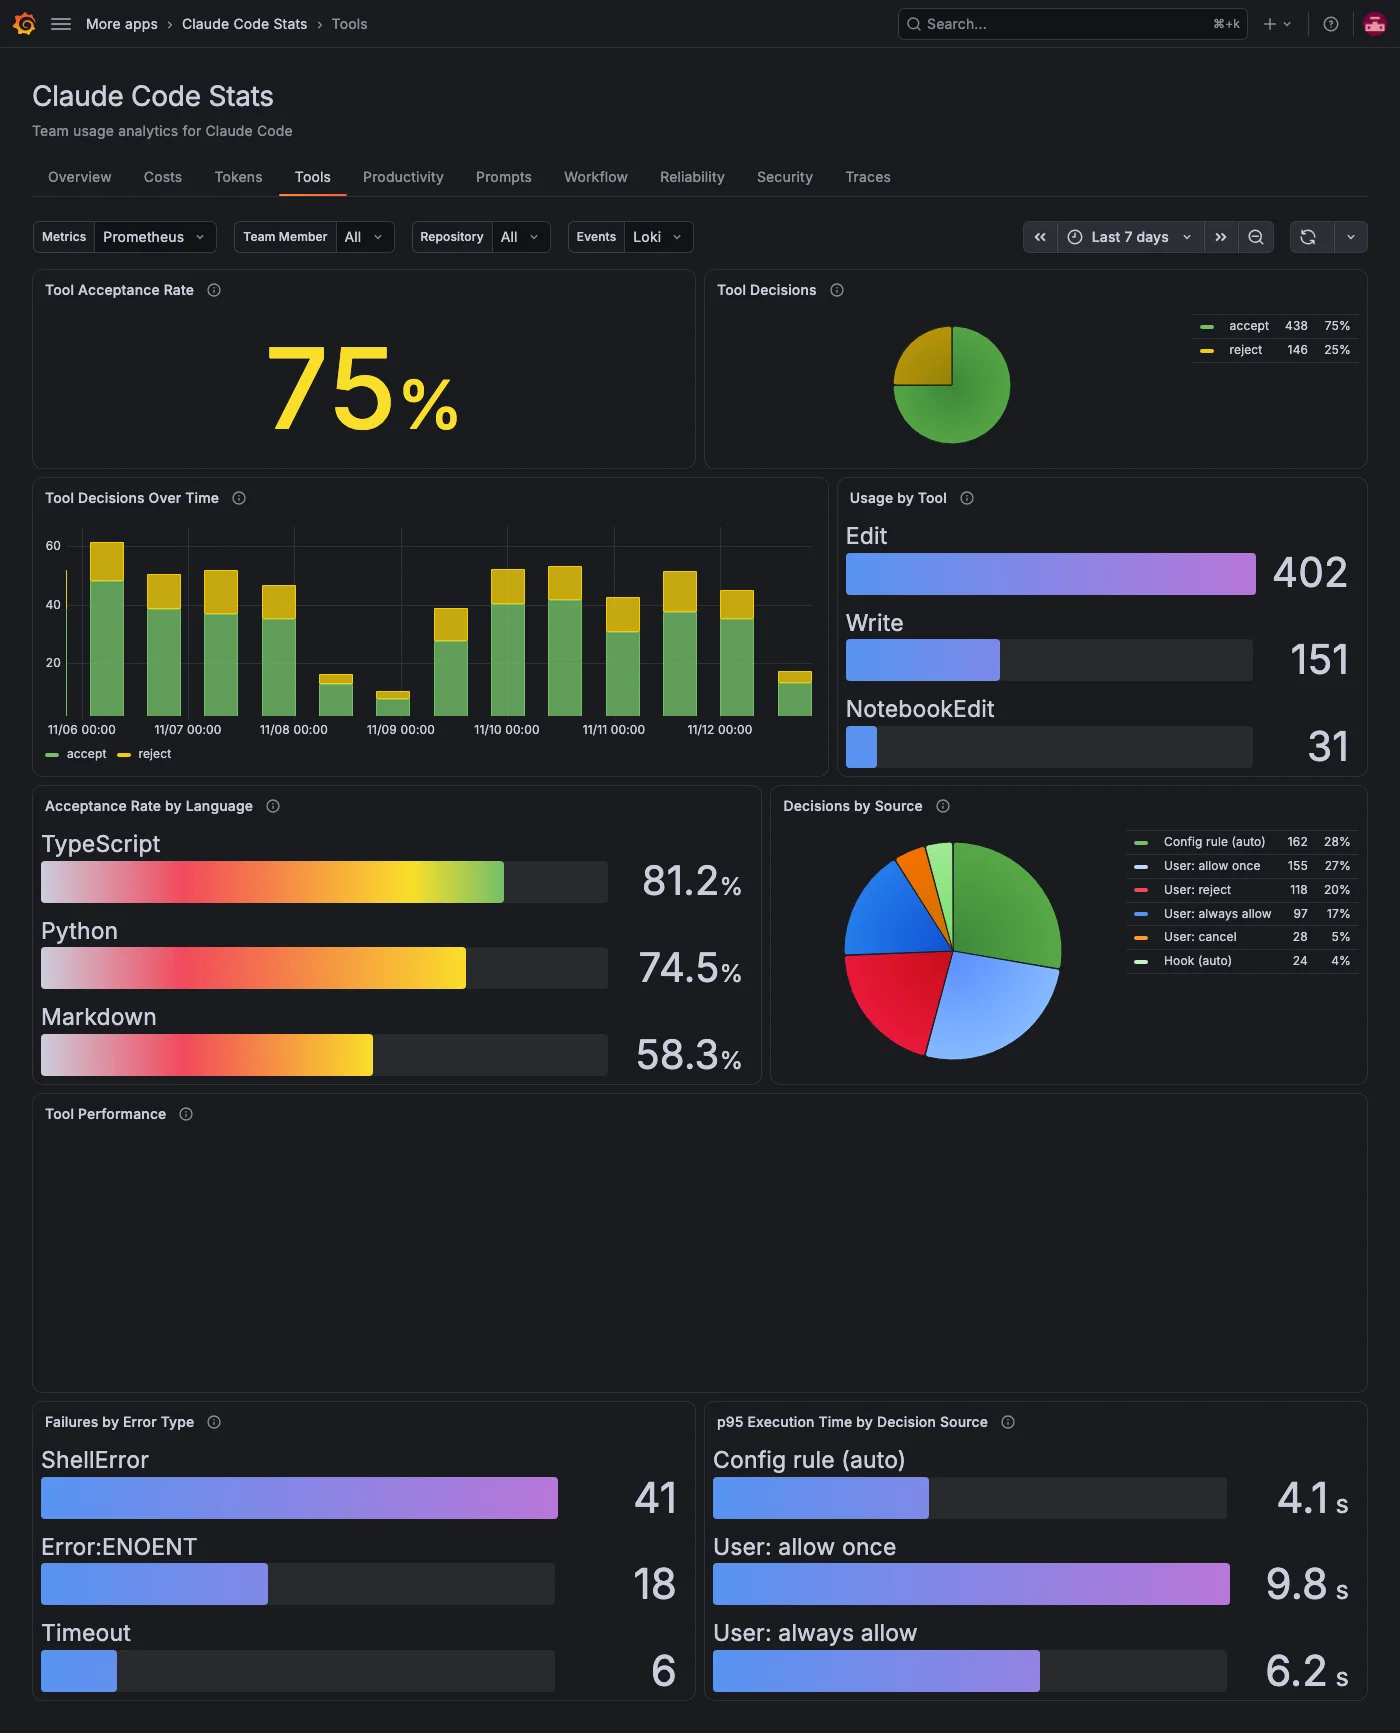
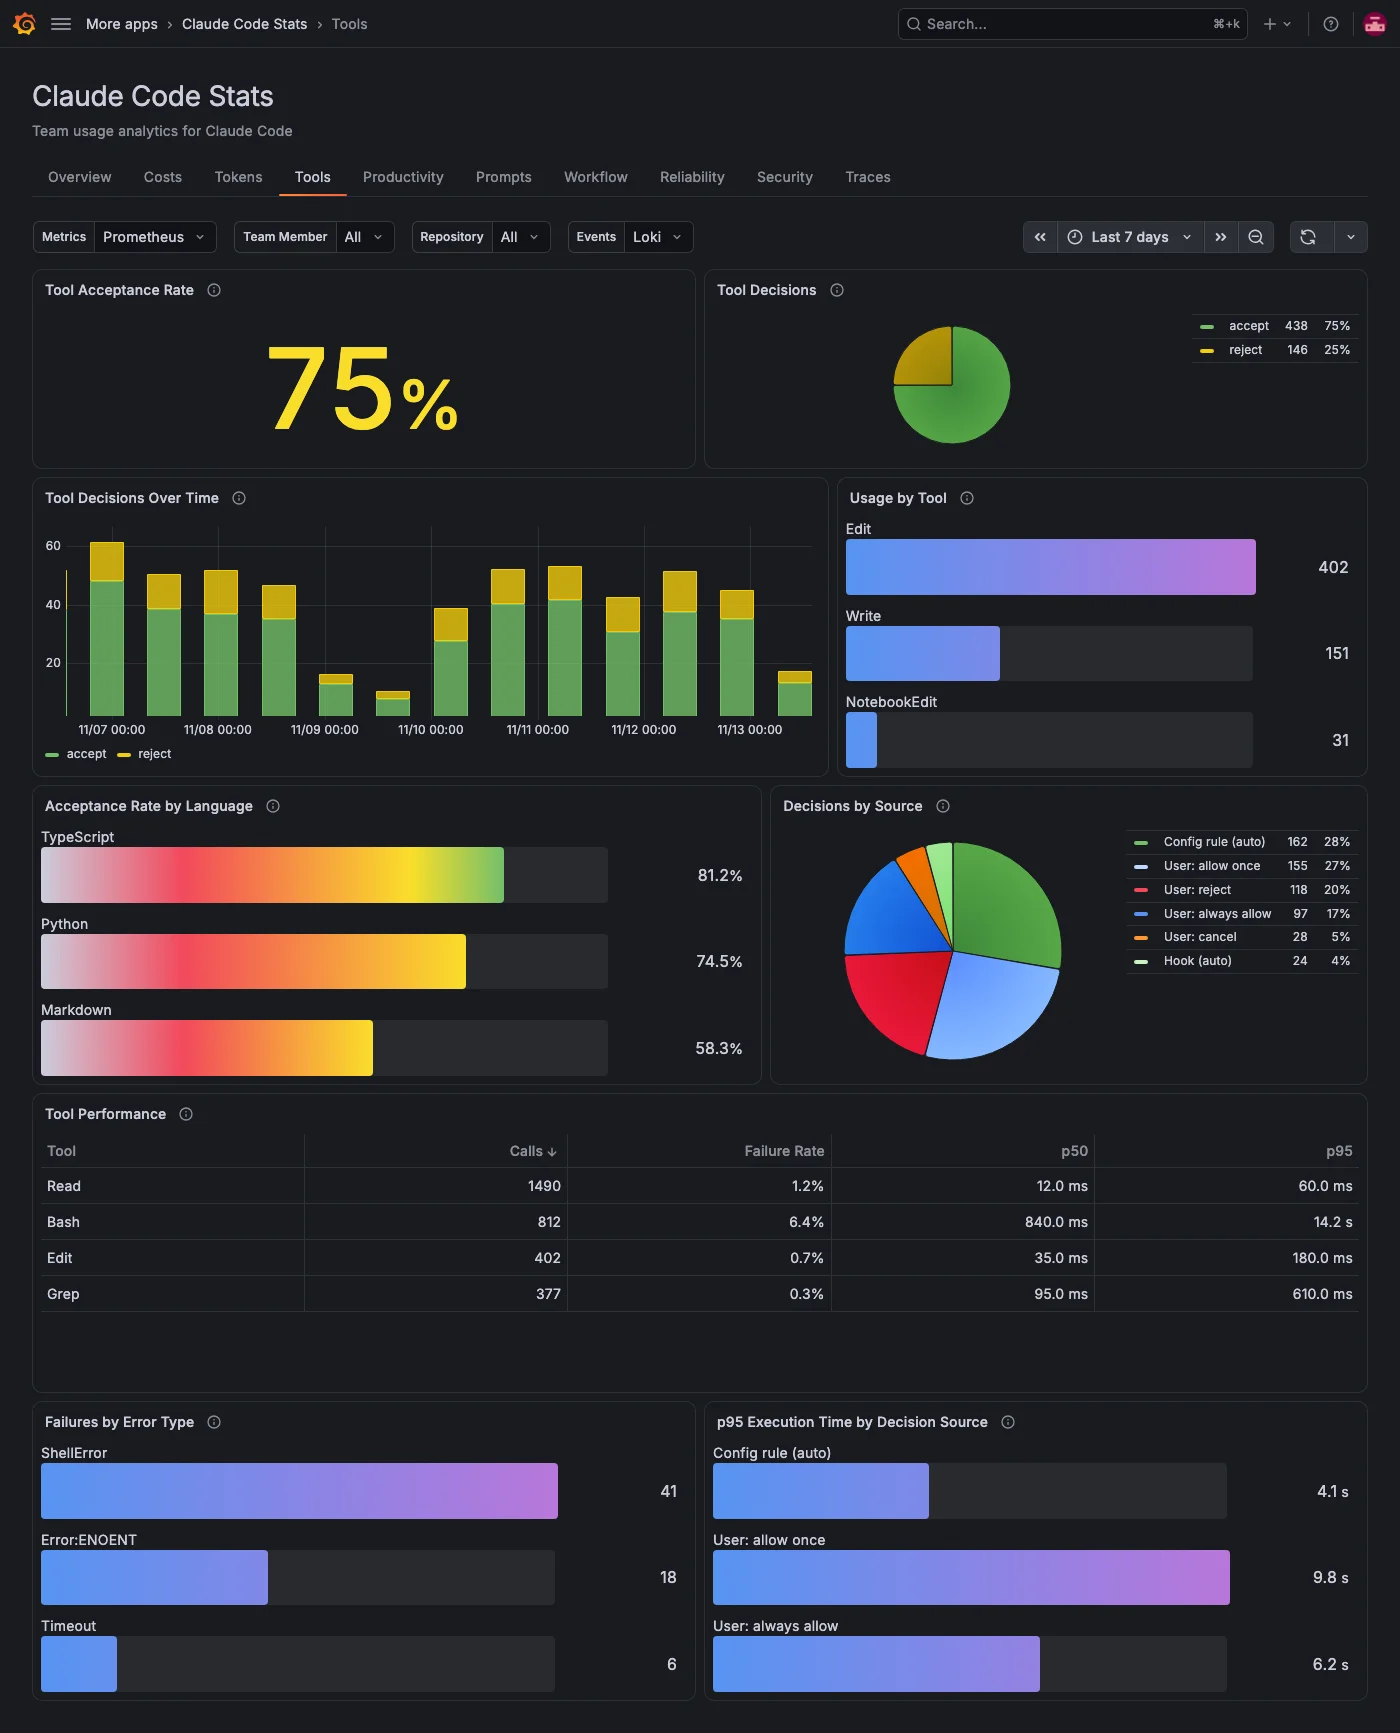
fix: readable labels, hints and text sizes in narrow panels (#96) (#105)
* fix: event tabs say what an empty panel means instead of asking for OTEL_LOGS_EXPORTER (#94)

* fix: show the exporter hint on empty breakdowns when Loki has no events

* fix: scope the event check to the configured labels and reword latency hints

* fix: don't claim why a panel is empty when the event check fails

* perf: one event check per tab instead of one per empty panel

* fix: readable labels, hints and text sizes in narrow panels

* docs: recapture screenshots and update the MCP tool label for the layout fixes

* fix: scope the Reliability event check to the selected model

diff --git a/src/scenes/pages/OverviewScene.ts b/src/scenes/pages/OverviewScene.ts
@@ -16,6 +16,7 @@ import { ACTIVE_TIME_TYPE_NAMES, changeVsPrevious, QUERIES, Queries } from '../q
 import { OVER_TIME_MIN_STEP, OVER_TIME_QUERY_OPTIONS, overTimeBars } from '../panelStyle';
 import { LABELS, PANEL_HEIGHTS } from '../../constants';
 import { teamLeaderboard } from './leaderboard';
+import { withEmptyHint } from '../HintWhenEmpty';
 
 /** A single-value stat for an efficiency ratio. */
 // The totals compared against the previous period of the same length.
@@ -479,16 +480,19 @@ export function getOverviewScene(
             }),
             new SceneFlexItem({
               width: '20%',
-              body: PanelBuilders.piechart()
-                .setTitle('Surface')
-                .setDescription(
-                  'Usage split by where Claude Code ran: the CLI, the VS Code extension, the desktop app or the SDK, weighted by cost.'
-                )
-                .setData(usageByEntrypointQuery)
-                .setOption('legend', { displayMode: LegendDisplayMode.List, placement: 'bottom' })
-                .setOption('pieType', 'donut' as never)
-                .setNoValue('Needs OTEL_METRICS_INCLUDE_ENTRYPOINT=true')
-                .build(),
+              body: withEmptyHint(
+                PanelBuilders.piechart()
+                  .setTitle('Surface')
+                  .setDescription(
+                    'Usage split by where Claude Code ran: the CLI, the VS Code extension, the desktop app or the SDK, weighted by cost. Needs OTEL_METRICS_INCLUDE_ENTRYPOINT=true.'
+                  )
+                  .setOption('legend', { displayMode: LegendDisplayMode.List, placement: 'bottom' })
+                  .setOption('pieType', 'donut' as never)
+                  .build(),
+                usageByEntrypointQuery,
+                // The setting name doesn't fit the narrow panel, so it's in the description.
+                'Needs the entrypoint setting. See the panel info.'
+              ),
             }),
           ],
         }),

diff --git a/src/scenes/pages/leaderboard.ts b/src/scenes/pages/leaderboard.ts
@@ -8,11 +8,11 @@ const COLUMNS = [
   ['Tokens', 'Tokens', 'tokensByMember', 'short', 1],
   ['Sessions', 'Sessions', 'sessionsByMember', 'none', 0],
   ['ActiveTime', 'Active Time', 'activeTimeByMember', 's', 0],
-  ['LinesAdded', 'Lines Added', 'linesAddedByMember', 'none', 0],
-  ['LinesRemoved', 'Lines Removed', 'linesRemovedByMember', 'none', 0],
+  ['LinesAdded', 'Added', 'linesAddedByMember', 'none', 0],
+  ['LinesRemoved', 'Removed', 'linesRemovedByMember', 'none', 0],
   ['Commits', 'Commits', 'commitsByMember', 'none', 0],
-  ['PullRequests', 'Pull Requests', 'pullRequestsByMember', 'none', 0],
-  ['AcceptanceRate', 'Acceptance Rate', 'toolAcceptanceRateByMember', 'percent', 0],
+  ['PullRequests', 'PRs', 'pullRequestsByMember', 'none', 0],
+  ['AcceptanceRate', 'Accept %', 'toolAcceptanceRateByMember', 'percent', 0],
 ] as const satisfies ReadonlyArray<readonly [string, string, keyof Queries, string, number]>;
 
 /**
@@ -73,7 +73,7 @@ export function teamLeaderboard(queries: Queries, variables: SceneVariableSet) {
   return PanelBuilders.table()
     .setTitle('Team Leaderboard')
     .setDescription(
-      'One row per team member for the period. Click a column header to sort, or a member to filter the app to them. Shows every member regardless of the Team Member filter; cost and tokens follow the Model filter.'
+      'One row per team member for the period. Added and Removed are lines of code, PRs are pull requests, and Accept % is the edit acceptance rate. Click a column header to sort, or a member to filter the app to them. Shows every member regardless of the Team Member filter; cost and tokens follow the Model filter.'
     )
     .setData(data)
     .setOption('sortBy', [{ displayName: 'Cost', desc: true }])

diff --git a/tests/overview.spec.ts b/tests/overview.spec.ts
@@ -64,7 +64,11 @@ test.describe('Overview scene', () => {
     }
     await mockEmptyPanels(page, ['UsageByEntrypoint']);
     app = await gotoPage();
-    await expect(panelByTitle(app, selectors, 'Surface')).toContainText('OTEL_METRICS_INCLUDE_ENTRYPOINT=true');
+    const surface = panelByTitle(app, selectors, 'Surface');
+    await expect(surface).toContainText('Needs the entrypoint setting.');
+    // The hint wraps inside the narrow panel instead of being cut off.
+    const hint = surface.getByText('Needs the entrypoint setting.');
+    expect(await hint.evaluate((el) => el.scrollWidth <= el.clientWidth)).toBe(true);
   });
 
   test('renders the efficiency ratios', async ({ mockData, gotoPage, selectors }) => {
@@ -83,7 +87,17 @@ test.describe('Overview scene', () => {
     const app = await gotoPage();
     const table = panelByTitle(app, selectors, 'Team Leaderboard');
 
-    for (const column of ['Team Member', 'Cost', 'Tokens', 'Sessions', 'Commits', 'Acceptance Rate']) {
+    for (const column of [
+      'Team Member',
+      'Cost',
+      'Tokens',
+      'Sessions',
+      'Added',
+      'Removed',
+      'Commits',
+      'PRs',
+      'Accept %',
+    ]) {
       await expect(table.getByRole('columnheader', { name: column })).toBeVisible();
     }
     // Highest cost first; every member's row merges all columns.

diff --git a/src/scenes/pages/ProductivityScene.ts b/src/scenes/pages/ProductivityScene.ts
@@ -227,7 +227,7 @@ export function getProductivityScene(
                 .setData(linesOfCodeByTypeQuery)
                 .setOption('legend', {
                   displayMode: LegendDisplayMode.Table,
-                  placement: 'right',
+                  placement: 'bottom',
                   values: ['value', 'percent'] as never,
                 })
                 .setOption('pieType', 'donut' as never)
@@ -244,7 +244,7 @@ export function getProductivityScene(
                 .setData(linesOfCodeByModelQuery)
                 .setOption('legend', {
                   displayMode: LegendDisplayMode.Table,
-                  placement: 'right',
+                  placement: 'bottom',
                   values: ['value', 'percent'] as never,
                 })
                 .build(),
@@ -304,7 +304,7 @@ export function getProductivityScene(
                 .setData(activeTimeByTypeQuery)
                 .setOption('legend', {
                   displayMode: LegendDisplayMode.Table,
-                  placement: 'right',
+                  placement: 'bottom',
                   values: ['value', 'percent'] as never,
                 })
                 .setOption('pieType', 'donut' as never)

diff --git a/src/scenes/pages/ToolsScene.ts b/src/scenes/pages/ToolsScene.ts
@@ -23,7 +23,13 @@ import { getControlsWithoutModel, LOKI_DS_VARIABLE } from '../variables';
 import { buildLogQueries, LogQueries } from '../logQueries';
 import { toolPerformanceRows } from './toolPerformance';
 import { emptyHints } from '../lokiPanels';
-import { horizontalBars, OVER_TIME_MIN_STEP, OVER_TIME_QUERY_OPTIONS, overTimeBars } from '../panelStyle';
+import {
+  BAR_GAUGE_TEXT,
+  horizontalBars,
+  OVER_TIME_MIN_STEP,
+  OVER_TIME_QUERY_OPTIONS,
+  overTimeBars,
+} from '../panelStyle';
 import { PANEL_HEIGHTS } from '../../constants';
 
 // A low acceptance rate means many proposed edits are rejected, so red/yellow/green
@@ -212,6 +218,7 @@ export function getToolsScene(
                 .setData(toolAcceptanceRateByLanguageQuery)
                 .setOption('displayMode', BarGaugeDisplayMode.Gradient)
                 .setOption('orientation', VizOrientation.Horizontal)
+                .setOption('text', BAR_GAUGE_TEXT)
                 .setOption('valueMode', BarGaugeValueMode.Text)
                 .setOption('showUnfilled', true)
                 .setOption('minVizWidth', 150)

diff --git a/src/scenes/pages/PromptsScene.ts b/src/scenes/pages/PromptsScene.ts
@@ -15,7 +15,7 @@ import { BarGaugeDisplayMode, BarGaugeValueMode, LegendDisplayMode, VizOrientati
 import { PANEL_HEIGHTS } from '../../constants';
 import { buildLogQueries, LogQueries, PROMPT_LENGTH_BUCKETS } from '../logQueries';
 import { emptyHints, LOKI, lokiBreakdown, lokiCountStat, lokiRunner, NO_EVENTS } from '../lokiPanels';
-import { BAR_GAUGE_COLOR, overTimeBars } from '../panelStyle';
+import { BAR_GAUGE_COLOR, BAR_GAUGE_TEXT, overTimeBars } from '../panelStyle';
 import { OptionalVariableControl } from '../OptionalVariableControl';
 import { LOKI_DS_VARIABLE } from '../variables';
 
@@ -39,6 +39,7 @@ function promptLengthPanel(queries: LogQueries) {
     .setOption('displayMode', BarGaugeDisplayMode.Gradient)
     .setColor(BAR_GAUGE_COLOR)
     .setOption('orientation', VizOrientation.Horizontal)
+    .setOption('text', BAR_GAUGE_TEXT)
     .setOption('valueMode', BarGaugeValueMode.Text)
     .setOption('showUnfilled', true)
     .setOption('minVizWidth', 150)

diff --git a/src/scenes/panelStyle.ts b/src/scenes/panelStyle.ts
@@ -51,6 +51,12 @@ export function overTimeBars() {
 export const BAR_GAUGE_COLOR = { mode: 'continuous-BlPu' } as const;
 
 /**
+ * Fixed bar gauge text sizes. Left to Grafana, a gauge with one or two bars scales
+ * its labels to fill the panel, far larger than anything else on the page.
+ */
+export const BAR_GAUGE_TEXT = { titleSize: 14, valueSize: 16 };
+
+/**
  * A horizontal bar gauge, one bar per series, labelled with the series name.
  * Bars start at zero: without a min, Grafana scales from the smallest value,
  * so the smallest bar (or a single bar) is drawn empty.
@@ -61,6 +67,7 @@ export function horizontalBars() {
     .setOption('displayMode', BarGaugeDisplayMode.Gradient)
     .setColor(BAR_GAUGE_COLOR)
     .setOption('orientation', VizOrientation.Horizontal)
+    .setOption('text', BAR_GAUGE_TEXT)
     .setOption('valueMode', BarGaugeValueMode.Text)
     .setOption('showUnfilled', true)
     .setOption('minVizWidth', 150)

diff --git a/src/scenes/pages/CostsScene.ts b/src/scenes/pages/CostsScene.ts
@@ -320,9 +320,9 @@ export function getCostsScene(
                 'currencyUSD',
                 {
                   noValue: 'No MCP tool result was used in this period',
-                  legendFormat: '{{mcp_server_name}} / {{mcp_tool_name}}',
+                  legendFormat: '{{mcp_tool_name}} · {{mcp_server_name}}',
                   description:
-                    'Estimated cost by MCP tool, shown as server / tool, for requests that used an MCP tool result. User-defined and third-party names show as custom or third-party unless team members set OTEL_LOG_TOOL_DETAILS=1. Empty when nothing used one.',
+                    'Estimated cost by MCP tool, shown as tool · server, for requests that used an MCP tool result. User-defined and third-party names show as custom or third-party unless team members set OTEL_LOG_TOOL_DETAILS=1. Empty when nothing used one.',
                 }
               ),
             }),

diff --git a/src/scenes/pages/TokensScene.ts b/src/scenes/pages/TokensScene.ts
@@ -347,9 +347,9 @@ export function getTokensScene(
                 'short',
                 {
                   noValue: 'No MCP tool result was used in this period',
-                  legendFormat: '{{mcp_server_name}} / {{mcp_tool_name}}',
+                  legendFormat: '{{mcp_tool_name}} · {{mcp_server_name}}',
                   description:
-                    'Tokens by MCP tool, shown as server / tool, for requests that used an MCP tool result. User-defined and third-party names show as custom or third-party unless team members set OTEL_LOG_TOOL_DETAILS=1. Empty when nothing used one.',
+                    'Tokens by MCP tool, shown as tool · server, for requests that used an MCP tool result. User-defined and third-party names show as custom or third-party unless team members set OTEL_LOG_TOOL_DETAILS=1. Empty when nothing used one.',
                 }
               ),
             }),

diff --git a/src/scenes/lokiPanels.ts b/src/scenes/lokiPanels.ts
@@ -1,6 +1,6 @@
 import { PanelBuilders, SceneDataProvider, SceneDataTransformer, SceneQueryRunner, VizPanel } from '@grafana/scenes';
 import { BarGaugeDisplayMode, BarGaugeValueMode, BigValueGraphMode, VizOrientation } from '@grafana/schema';
-import { BAR_GAUGE_COLOR, OVER_TIME_QUERY_OPTIONS } from './panelStyle';
+import { BAR_GAUGE_COLOR, BAR_GAUGE_TEXT, OVER_TIME_QUERY_OPTIONS } from './panelStyle';
 import { LOKI_DS_VARIABLE } from './variables';
 import { withEmptyHint } from './HintWhenEmpty';
 
@@ -94,6 +94,7 @@ export function lokiBreakdown(
     .setOption('displayMode', BarGaugeDisplayMode.Gradient)
     .setColor(BAR_GAUGE_COLOR)
     .setOption('orientation', VizOrientation.Horizontal)
+    .setOption('text', BAR_GAUGE_TEXT)
     .setOption('valueMode', BarGaugeValueMode.Text)
     .setOption('showUnfilled', true)
     .setOption('minVizWidth', 150)

diff --git a/tests/costs.spec.ts b/tests/costs.spec.ts
@@ -84,6 +84,22 @@ test.describe('Costs scene', () => {
     }
   });
 
+  test('bar gauges with few bars keep their text small instead of scaling it to the panel', async ({
+    mockData,
+    gotoPage,
+    selectors,
+  }) => {
+    const app = await gotoPage('costs');
+
+    // Two bars each, which Grafana would otherwise draw at heading size.
+    for (const title of ['Cost by Subagent', 'Cost by Speed (Fast Mode)']) {
+      const value = panelByTitle(app, selectors, title).getByTestId('data-testid Bar gauge value').first();
+      await expect(value).toBeVisible();
+      const size = await value.evaluate((el) => parseFloat(getComputedStyle(el).fontSize));
+      expect(size, title).toBeLessThanOrEqual(16);
+    }
+  });
+
   test('renders the attribution bar gauges by source, subagent, skill, and MCP server', async ({
     mockData,
     gotoPage,

diff --git a/tests/mocks/prometheus.ts b/tests/mocks/prometheus.ts
@@ -58,7 +58,7 @@ export const MCP_TOOLS = [
   { server: 'github', tool: 'search_code' },
   { server: 'filesystem', tool: 'read_file' },
 ] as const;
-export const mcpToolLabel = (t: { server: string; tool: string }) => `${t.server} / ${t.tool}`;
+export const mcpToolLabel = (t: { server: string; tool: string }) => `${t.tool} · ${t.server}`;
 // `normal` and `default` are the buckets the queries fold absent labels into.
 export const SPEEDS = ['normal', 'fast'] as const;
 export const EFFORTS = ['high', 'medium', 'default'] as const;
